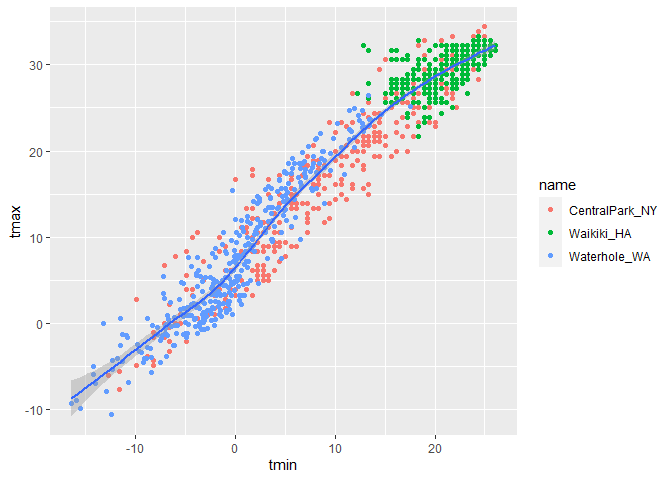
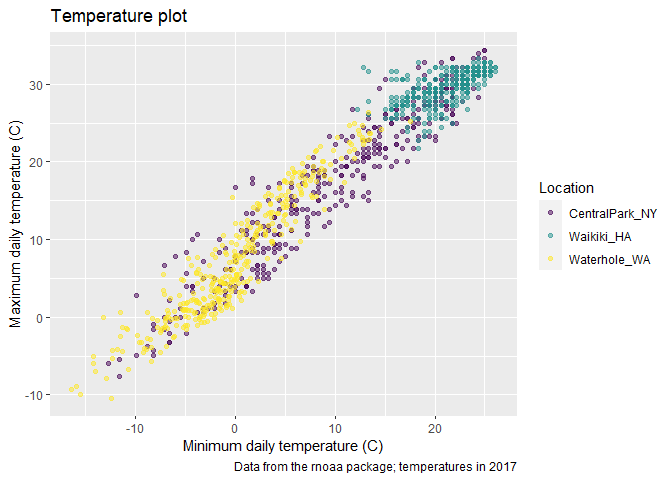
scales!!

diff --git a/viz_ii.md b/viz_ii.md
@@ -93,3 +93,78 @@ weather_df %>%
     ## Warning: Removed 15 rows containing missing values (geom_point).
 
 ![](viz_ii_files/figure-gfm/unnamed-chunk-3-1.png)<!-- -->
+
+## Scales
+
+Start with the same plot “trans = sqrt/log” changes the type of plot
+“position =” can move the axis around the graph
+
+``` r
+weather_df %>% 
+  ggplot(aes(x = tmin, y = tmax, color = name)) +
+  geom_point(alpha = 0.5) +
+  labs(
+    title = "Temperature plot",
+    x = "Minimum daily temperature (C)",
+    y = "Maximum daily temperature (C)",
+    caption = "Data from the rnoaa package; temperatures in 2017"
+  ) +
+  scale_x_continuous(
+    breaks = c(-15, 0 ,15),
+    labels = c("-15 C", "0 C", "15 C")
+  ) +
+  scale_y_continuous(
+    position = "right"
+  )
+```
+
+    ## Warning: Removed 15 rows containing missing values (geom_point).
+
+![](viz_ii_files/figure-gfm/unnamed-chunk-4-1.png)<!-- -->
+
+Look at color scales “scale\_color\_hue(h = c(100,300))” hues go from 0
+to 360
+
+``` r
+weather_df %>% 
+  ggplot(aes(x = tmin, y = tmax, color = name)) +
+  geom_point(alpha = 0.5) +
+  labs(
+    title = "Temperature plot",
+    x = "Minimum daily temperature (C)",
+    y = "Maximum daily temperature (C)",
+    caption = "Data from the rnoaa package; temperatures in 2017"
+  ) +
+ scale_color_hue(
+   name = "Location",
+   h = c(100,300))
+```
+
+    ## Warning: Removed 15 rows containing missing values (geom_point).
+
+![](viz_ii_files/figure-gfm/unnamed-chunk-5-1.png)<!-- -->
+
+Other color option (virdis package) This package assumes that the value
+you’re putting in is on a continuous scale –\> we need to tell it that
+the variable is discrete
+
+This is a good color palette to use
+
+``` r
+weather_df %>% 
+  ggplot(aes(x = tmin, y = tmax, color = name)) +
+  geom_point(alpha = 0.5) +
+  labs(
+    title = "Temperature plot",
+    x = "Minimum daily temperature (C)",
+    y = "Maximum daily temperature (C)",
+    caption = "Data from the rnoaa package; temperatures in 2017"
+  ) +
+ viridis::scale_color_viridis(
+   name = "Location",
+   discrete = TRUE)
+```
+
+    ## Warning: Removed 15 rows containing missing values (geom_point).
+
+![](viz_ii_files/figure-gfm/unnamed-chunk-6-1.png)<!-- -->
